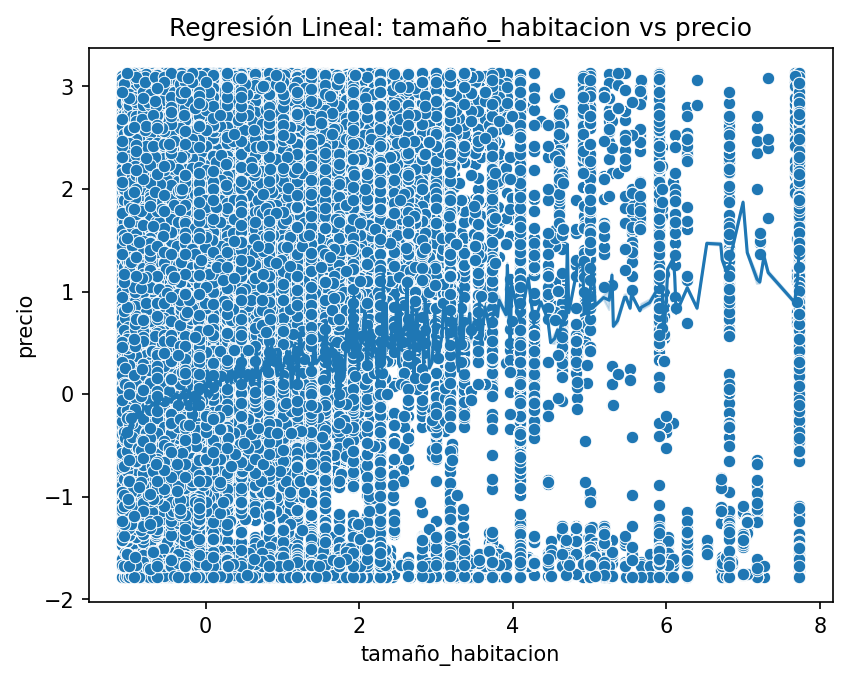
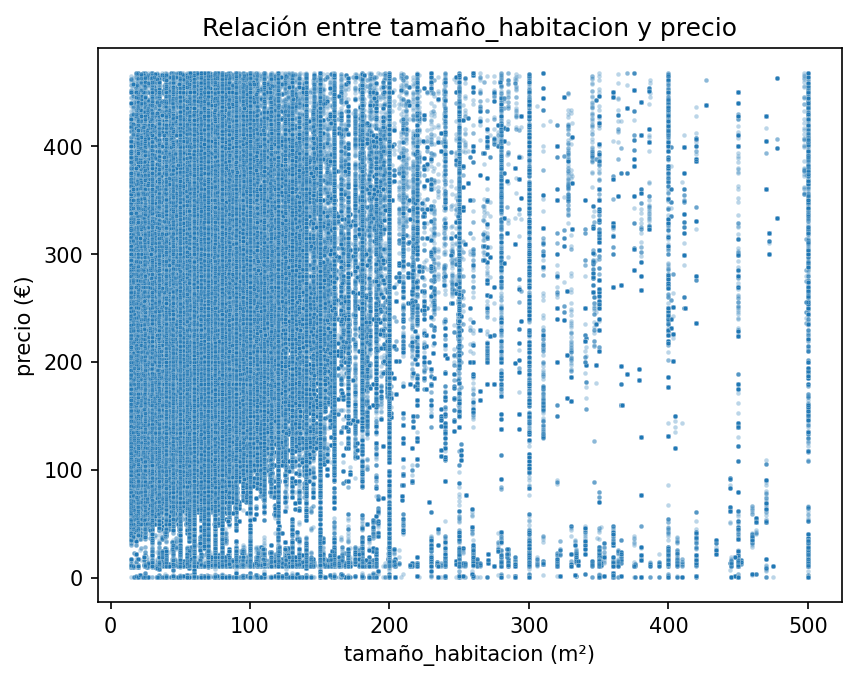
feat: Add métricas a todos los modelos, no solo al ganador

diff --git a/TFG_Chollos/Modelizacion/Modelizacion.py b/TFG_Chollos/Modelizacion/Modelizacion.py
@@ -51,6 +51,19 @@ logger = configurar_logger(__name__)
 
 
 # =============================================================================
+# HELPERS
+# =============================================================================
+
+def _log_metricas(y_real, y_pred, etiqueta: str, units: str = '€'):
+    """Calcula y loguea R², MAE y RMSE."""
+    r2   = r2_score(y_real, y_pred)
+    mae  = mean_absolute_error(y_real, y_pred)
+    rmse = np.sqrt(mean_squared_error(y_real, y_pred))
+    logger.info(f'{etiqueta} R²={r2:.4f} | MAE={mae:.2f}{units} | RMSE={rmse:.2f}{units}')
+    return r2
+
+
+# =============================================================================
 # MODELOS DE REGRESIÓN
 # =============================================================================
 
@@ -60,6 +73,8 @@ def crear_regresion_lineal(conjunto_ent_est: pd.DataFrame, conjunto_val_est: pd.
                             X_plot: pd.DataFrame = None, y_plot: pd.Series = None):
     """
     Entrena una Regresión Lineal Múltiple sobre datos estandarizados.
+    Las métricas de validación se reportan en unidades z-score porque tanto X como y
+    están estandarizados; la conversión a € se realiza en main() con inverse_transform.
     Genera un gráfico de dispersión en unidades originales si se pasan X_plot e y_plot,
     o en escala estandarizada en caso contrario.
     """
@@ -67,10 +82,10 @@ def crear_regresion_lineal(conjunto_ent_est: pd.DataFrame, conjunto_val_est: pd.
 
     regresion = linear_model.LinearRegression()
     regresion.fit(conjunto_ent_est, target_ent_est)
-    logger.info('✅ Creado y entrenado el modelo de "Regresión Lineal Múltiple" correctamente')
+    logger.info('✅ Modelo entrenado')
 
-    r2_val = regresion.score(conjunto_val_est, target_val_est)
-    logger.info(f'R² en validación: {r2_val:.4f}')
+    y_pred_val = regresion.predict(conjunto_val_est)
+    _log_metricas(target_val_est, y_pred_val, '[VAL - Regresión Lineal]', units=' (z-score)')
 
     ruta_modelo = BASE / 'data' / 'models' / 'regresion_lineal_reg.pkl'
     joblib.dump(regresion, ruta_modelo)
@@ -98,8 +113,9 @@ def crear_regresion_lineal(conjunto_ent_est: pd.DataFrame, conjunto_val_est: pd.
 def crear_arbol_decision(conjunto_ent: pd.DataFrame, conjunto_val: pd.DataFrame,
                           target_ent: pd.Series, target_val: pd.Series):
     """
-    Entrena un Árbol de Decisión con búsqueda de hiperparámetros (max_depth).
+    Entrena un Árbol de Decisión con búsqueda en rejilla de max_depth.
     No requiere escalado: solo compara umbrales, la magnitud no importa.
+    Métricas de validación en €.
     Genera un gráfico del árbol con profundidad 3 para visualizar las decisiones principales.
     """
     logger.info('⏳ Creando "Árbol de Decisión"')
@@ -116,11 +132,10 @@ def crear_arbol_decision(conjunto_ent: pd.DataFrame, conjunto_val: pd.DataFrame,
     )
     grid_search.fit(conjunto_ent, target_ent)
     mejor_arbol = grid_search.best_estimator_
-    logger.info('✅ Creado y entrenado el modelo "Árbol de Decisión" correctamente')
-    logger.info(f'Mejores hiperparámetros: {grid_search.best_params_}')
+    logger.info(f'✅ Modelo entrenado | Mejores hiperparámetros: {grid_search.best_params_}')
 
-    r2_val = mejor_arbol.score(conjunto_val, target_val)
-    logger.info(f'R² en validación: {r2_val:.4f}')
+    y_pred_val = mejor_arbol.predict(conjunto_val)
+    _log_metricas(target_val, y_pred_val, '[VAL - Árbol de Decisión]')
 
     ruta_modelo = BASE / 'data' / 'models' / 'arbol_decision_reg.pkl'
     joblib.dump(mejor_arbol, ruta_modelo)
@@ -147,8 +162,9 @@ def crear_arbol_decision(conjunto_ent: pd.DataFrame, conjunto_val: pd.DataFrame,
 def crear_bosque_aleatorio(conjunto_ent: pd.DataFrame, conjunto_val: pd.DataFrame,
                             target_ent: pd.Series, target_val: pd.Series):
     """
-    Entrena un Random Forest con búsqueda de hiperparámetros (n_estimators, max_depth).
+    Entrena un Random Forest con búsqueda en rejilla de n_estimators y max_depth.
     Técnica Bagging: combina múltiples árboles con subconjuntos aleatorios de datos y features.
+    Métricas de validación en €.
     No requiere escalado.
     """
     logger.info('⏳ Creando "Bosque Aleatorio"')
@@ -168,11 +184,10 @@ def crear_bosque_aleatorio(conjunto_ent: pd.DataFrame, conjunto_val: pd.DataFram
     )
     grid_search.fit(conjunto_ent, target_ent)
     mejor_bosque = grid_search.best_estimator_
-    logger.info('✅ Creado y entrenado el modelo "Bosque Aleatorio" correctamente')
-    logger.info(f'Mejores hiperparámetros: {grid_search.best_params_}')
+    logger.info(f'✅ Modelo entrenado | Mejores hiperparámetros: {grid_search.best_params_}')
 
-    r2_val = mejor_bosque.score(conjunto_val, target_val)
-    logger.info(f'R² en validación: {r2_val:.4f}')
+    y_pred_val = mejor_bosque.predict(conjunto_val)
+    _log_metricas(target_val, y_pred_val, '[VAL - Bosque Aleatorio]')
 
     ruta_modelo = BASE / 'data' / 'models' / 'bosque_aleatorio_reg.pkl'
     joblib.dump(mejor_bosque, ruta_modelo)
@@ -184,8 +199,9 @@ def crear_bosque_aleatorio(conjunto_ent: pd.DataFrame, conjunto_val: pd.DataFram
 def crear_boosting(conjunto_ent: pd.DataFrame, conjunto_val: pd.DataFrame,
                    target_ent: pd.Series, target_val: pd.Series):
     """
-    Entrena un XGBoost con búsqueda de hiperparámetros (n_estimators, learning_rate, max_depth).
+    Entrena un XGBoost con búsqueda en rejilla de n_estimators, learning_rate y max_depth.
     Gradient Boosting: construye árboles secuencialmente corrigiendo los errores del anterior.
+    Métricas de validación en €.
     No requiere escalado.
     """
     logger.info('⏳ Creando "XGBoost"')
@@ -206,11 +222,10 @@ def crear_boosting(conjunto_ent: pd.DataFrame, conjunto_val: pd.DataFrame,
     )
     grid_search.fit(conjunto_ent, target_ent)
     mejor_boosting = grid_search.best_estimator_
-    logger.info('✅ Creado y entrenado el modelo de "XGBoost" correctamente')
-    logger.info(f'Mejores hiperparámetros: {grid_search.best_params_}')
+    logger.info(f'✅ Modelo entrenado | Mejores hiperparámetros: {grid_search.best_params_}')
 
-    r2_val = mejor_boosting.score(conjunto_val, target_val)
-    logger.info(f'R² en validación: {r2_val:.4f}')
+    y_pred_val = mejor_boosting.predict(conjunto_val)
+    _log_metricas(target_val, y_pred_val, '[VAL - XGBoost]')
 
     ruta_modelo = BASE / 'data' / 'models' / 'boosting_reg.pkl'
     joblib.dump(mejor_boosting, ruta_modelo)
@@ -274,14 +289,17 @@ def main():
         estandarizar_datos(X_train, X_val, X_test, y_train, y_val, y_test)
 
     # 3. ENTRENAMIENTO DE MODELOS
+    # Las funciones loguean métricas de validación inmediatamente tras el entrenamiento. Para LR las métricas son en z-score; el resto en €.
     # -------------------------------------------------------------------------
     regresion = crear_regresion_lineal(X_train_est, X_val_est, y_train_est, y_val_est, 'tamaño_habitacion', X_plot=X_train, y_plot=y_train)
     arbol     = crear_arbol_decision(X_train, X_val, y_train, y_val)
-    bosque  = crear_bosque_aleatorio(X_train, X_val, y_train, y_val)
-    # bosque    = joblib.load(BASE / 'data' / 'models' / 'bosque_aleatorio_reg.pkl')
+    bosque    = crear_bosque_aleatorio(X_train, X_val, y_train, y_val)
+    # bosque  = joblib.load(BASE / 'data' / 'models' / 'bosque_aleatorio_reg.pkl')
     boosting  = crear_boosting(X_train, X_val, y_train, y_val)
 
-    # 4. SELECCIÓN DEL MEJOR MODELO (por R² en validación)
+    # 4. SELECCIÓN DEL MEJOR MODELO + EVALUACIÓN EN TEST
+    # Todas las métricas en € (inverse_transform para LR) para que sean comparables.
+    # La selección se basa en R² val; el test se calcula pero no influye en la decisión.
     # -------------------------------------------------------------------------
     modelos_regresion = [
         ('Regresión Lineal',  regresion, X_train_est, X_val_est, X_test_est, y_train_est, y_val_est, y_test_est),
@@ -296,29 +314,50 @@ def main():
     mejor_y_train = mejor_y_val = mejor_y_test = None
 
     for nombre, modelo, X_tr, X_va, X_te, y_tr, y_va, y_te in modelos_regresion:
-        score = modelo.score(X_va, y_va)
-        if mejor_score is None or score > mejor_score:
-            mejor_score  = score
+        y_pred_va = modelo.predict(X_va)
+        y_pred_te = modelo.predict(X_te)
+
+        # LR: inverse_transform para obtener MAE/RMSE en € comparables con el resto
+        if nombre == 'Regresión Lineal':
+            y_pred_va_eur = scaler_y.inverse_transform(y_pred_va.reshape(-1, 1)).ravel()
+            y_pred_te_eur = scaler_y.inverse_transform(y_pred_te.reshape(-1, 1)).ravel()
+            y_va_eur = y_val.values
+            y_te_eur = y_test.values
+        else:
+            y_pred_va_eur, y_pred_te_eur = y_pred_va, y_pred_te
+            y_va_eur = y_va.values
+            y_te_eur = y_te.values
+
+        r2_va = _log_metricas(y_va_eur, y_pred_va_eur, f'[VAL  - {nombre}]')
+        _log_metricas(y_te_eur, y_pred_te_eur, f'[TEST - {nombre}]')
+
+        if mejor_score is None or r2_va > mejor_score:
+            mejor_score  = r2_va
             mejor_nombre, mejor_modelo_reg = nombre, modelo
             mejor_X_train, mejor_X_val, mejor_X_test = X_tr, X_va, X_te
             mejor_y_train, mejor_y_val, mejor_y_test = y_tr, y_va, y_te
 
-    logger.info(f'✅ Mejor modelo de regresión: {mejor_nombre} (R²={mejor_score:.4f})')
+    logger.info(f'✅ Mejor modelo de regresión: {mejor_nombre} (R² val={mejor_score:.4f})')
+
+    # Énfasis especial en Bosque Aleatorio: importancia de variables
+    if mejor_nombre == 'Bosque Aleatorio':
+        importancias = pd.Series(
+            mejor_modelo_reg.feature_importances_,
+            index=mejor_X_train.columns,
+        ).sort_values(ascending=False)
+        logger.info('Top 10 variables más importantes (Bosque Aleatorio):')
+        for feat, imp in importancias.head(10).items():
+            logger.info(f'  {feat:35s} {imp:.4f}')
 
     # 5. ETIQUETADO DE CHOLLOS con el mejor modelo
     # -------------------------------------------------------------------------
     y_pred_train = mejor_modelo_reg.predict(mejor_X_train)
-
     chollo_train = crear_etiqueta_chollo(mejor_y_train, pd.Series(y_pred_train, index=mejor_y_train.index))
     logger.info(f'Distribución categorías train: {chollo_train.value_counts().to_dict()}')
 
-    # 6. EVALUACIÓN FINAL EN TEST
+    # 6. PREDICCIONES TEST del modelo ganador (ya evaluadas en el paso 4)
     # -------------------------------------------------------------------------
     y_pred_test_reg = mejor_modelo_reg.predict(mejor_X_test)
-    r2_test   = r2_score(mejor_y_test, y_pred_test_reg)
-    mae_test  = mean_absolute_error(mejor_y_test, y_pred_test_reg)
-    rmse_test = np.sqrt(mean_squared_error(mejor_y_test, y_pred_test_reg))
-    logger.info(f'[TEST - {mejor_nombre}] R²={r2_test:.4f} | MAE={mae_test:.2f} | RMSE={rmse_test:.2f}')
 
     # 7. GUARDAR SCALERS del modelo ganador (solo si es Regresión Lineal)
     # -------------------------------------------------------------------------
@@ -327,7 +366,6 @@ def main():
         joblib.dump(scaler_X, modelos_dir / 'scaler_X_regresion.pkl')
         joblib.dump(scaler_y, modelos_dir / 'scaler_y_regresion.pkl')
         logger.info(f'✅ Scalers guardados en {modelos_dir}')
-
 
 
 if __name__ == '__main__':
